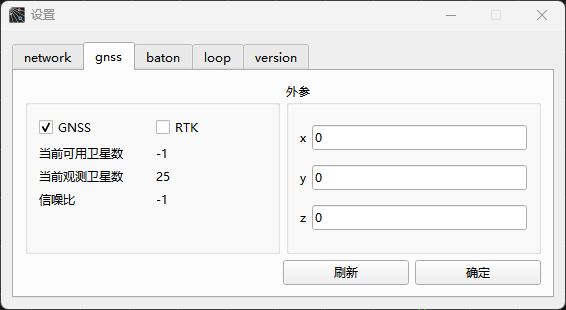
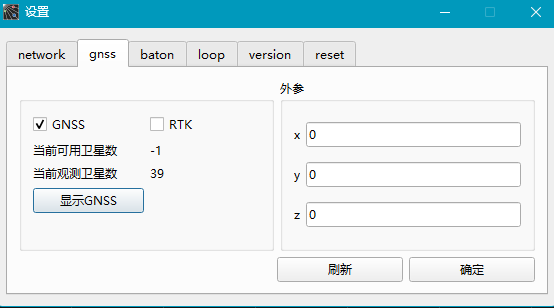
更新gnss可视化界面的说明

diff --git a/source/基本功能介绍及使用/GNSS模块使用.md b/source/基本功能介绍及使用/GNSS模块使用.md
@@ -4,13 +4,9 @@
 
 ### 一.开启GNSS模块数据接收
 
-正确连接好设备后，点击上位机的设置按键。
+正确连接好设备后，点击上位机的设置按键,选择gnss选项卡：
 
 ![](image/image_83znJpEQ-T.png)
-
-选择gnss选项卡
-
-![image-20250415145035694](image/image-20250415145035694.png)
 
 如果GNSS前面的勾选是已经选上了，即已经开启了GNSS模块的数据接收，一般在室内是搜不到卫星信号的，所以显示的当前观测卫星数为0；
 
@@ -21,6 +17,15 @@
 我们需要把GNSS模块的天线接上，然后把天线主体放置在能够搜到卫星的位置，尽量不要贴近金属物件或者电磁干扰大的地方。设置页面会刷新当前搜索到的卫星数，显示为当前观测卫星数。如果显示为0，则有可能是天线与模块连接有问题，请确认两者的连接状态。
 
 ![image-20250415145206850](image/image-20250415145206850.png)
+
+点击上图中的“显示GNSS”按钮之后会显示卫星质量更详细的的信息：
+左侧的折线图绘制的是可见卫星数、可用卫星数、使用卫星数的折线图；
+
+中间的是卫星的天顶图，将可用卫星的方位角和高度角将其画在以观测位置为中心的天顶图上；
+
+右侧的是每一颗可用卫星(灰白色)和使用卫星(蓝色)的信噪比的柱状图；
+
+![](image/image-gnss_quality_view.png)
 
 注：未开启算法时，由于还没有使用卫星来计算位姿，所以当前可用卫星数会是-1，信噪比为-1。为了避免信号干扰，天线与主板的距离需要大于20cm。在室外场景，信噪比需要>35。
 
